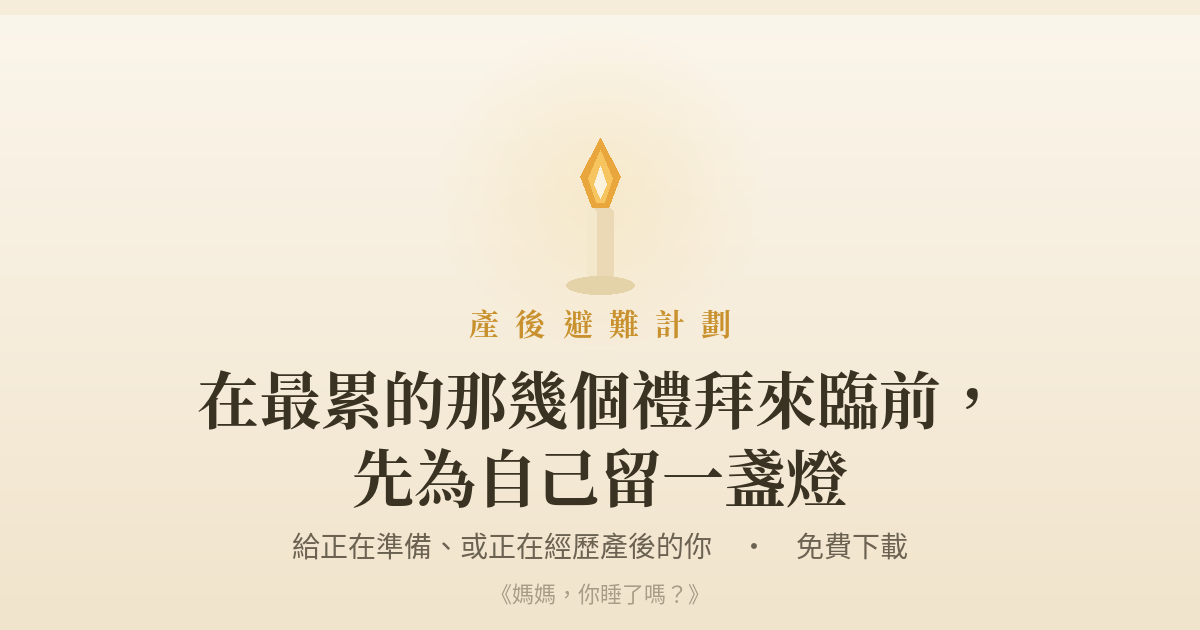
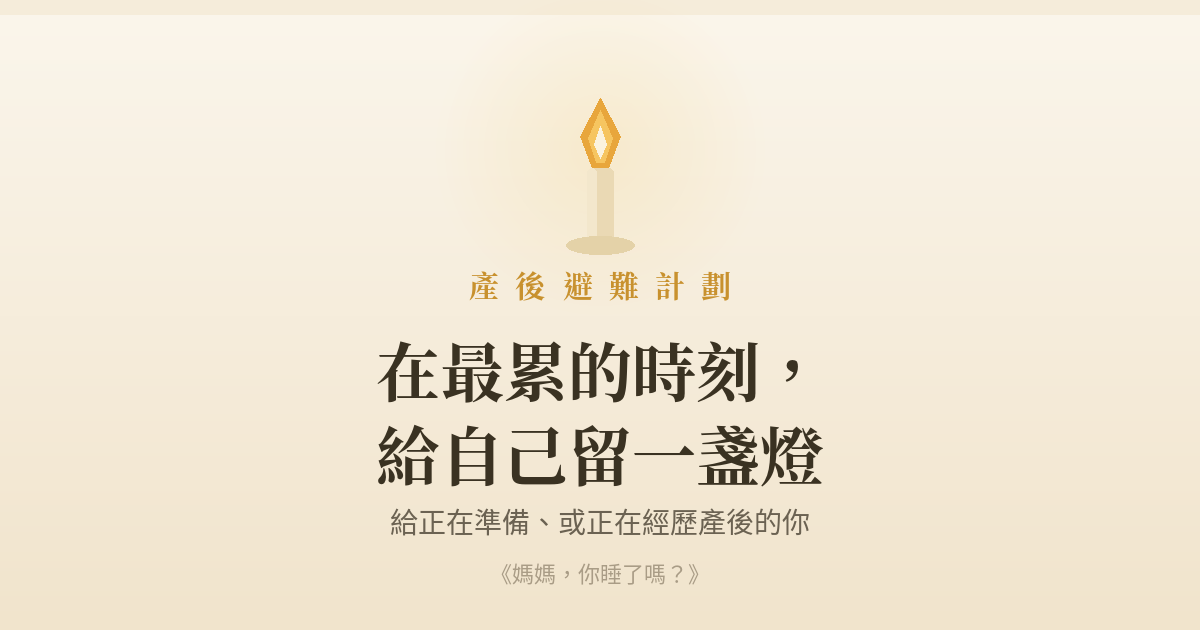
Add files via upload

Changed region(s): [[0.1542, 0.3619, 0.8325, 0.9651], [0.4625, 0.1508, 0.5242, 0.3317]]

diff --git a/index.html b/index.html
@@ -1,13 +1,29 @@
 <!DOCTYPE html>
-<!-- saved from url=(0045)https://dearmamatw.github.io/Postpartum-plan/ -->
-<html lang="zh-Hant"><head><meta http-equiv="Content-Type" content="text/html; charset=UTF-8">
-
+<html lang="zh-Hant">
+<head>
+<meta charset="UTF-8">
 <meta name="viewport" content="width=device-width, initial-scale=1.0">
 <title>產後避難計劃 ·《媽媽，你睡了嗎？》</title>
-<meta name="description" content="在最累的時刻，給自己留一盞燈。一份免費的產後避難計劃填寫表。">
-<link rel="preconnect" href="https://fonts.googleapis.com/">
-<link rel="preconnect" href="https://fonts.gstatic.com/" crossorigin="">
-<link href="./產後避難計劃 ·《媽媽，你睡了嗎？》_files/css2" rel="stylesheet">
+<meta name="description" content="給正在準備、或正在經歷產後的你。一份免費的產後避難計劃填寫表。">
+
+<!-- Open Graph / social preview -->
+<meta property="og:type" content="website">
+<meta property="og:url" content="https://dearmamatw.github.io/Postpartum-plan/">
+<meta property="og:title" content="產後避難計劃 ·《媽媽，你睡了嗎？》">
+<meta property="og:description" content="在最累的時刻，給自己留一盞燈。給正在準備、或正在經歷產後的你，一份免費、可填寫的產後避難計劃。">
+<meta property="og:image" content="https://dearmamatw.github.io/Postpartum-plan/og-image.png">
+<meta property="og:image:width" content="1200">
+<meta property="og:image:height" content="630">
+<meta property="og:image:alt" content="產後避難計劃 · 給正在準備、或正在經歷產後的你">
+<meta property="og:locale" content="zh_TW">
+<meta property="og:site_name" content="媽媽，你睡了嗎？">
+<meta name="twitter:card" content="summary_large_image">
+<meta name="twitter:title" content="產後避難計劃 ·《媽媽，你睡了嗎？》">
+<meta name="twitter:description" content="在最累的時刻，給自己留一盞燈。一份免費、可填寫的產後避難計劃。">
+<meta name="twitter:image" content="https://dearmamatw.github.io/Postpartum-plan/og-image.png">
+<link rel="preconnect" href="https://fonts.googleapis.com">
+<link rel="preconnect" href="https://fonts.gstatic.com" crossorigin>
+<link href="https://fonts.googleapis.com/css2?family=Noto+Serif+TC:wght@500;600;700&family=Noto+Sans+TC:wght@400;500;700&display=swap" rel="stylesheet">
 <style>
   :root{
     --cream:#FBF6EC; --cream-2:#F5ECDA; --soft:#EFE2C6;
@@ -68,6 +84,7 @@
   <h1>在最累的時刻，<br>給自己留一盞燈</h1>
 
   <p class="lede">
+    給正在準備、或正在經歷產後的你。<br>
     <span class="thin">不論你還在懷孕，或已經在產後的忙亂裡——這份計劃都是為你準備的。</span>
   </p>
 
@@ -78,14 +95,13 @@
   <div class="card">
     <p class="k">產後避難計劃 · 可填寫表單</p>
     <p class="d">你不需要一次填完，翻到哪一頁對你有用，就從哪裡開始。<br>準備好了，就把它收下。</p>
-    <a class="btn" href="https://dearmamatw.github.io/Postpartum-plan/postpartum-sanctuary-plan.pdf" download="產後避難計劃.pdf">下載產後避難計劃</a>
+    <a class="btn" href="postpartum-sanctuary-plan.pdf" download="產後避難計劃.pdf">下載產後避難計劃</a>
   </div>
 
   <div class="help">
     <p>
-      如果需要有人說說話時：<br>
-      <span class="num">1925</span> 安心專線（依舊愛我，24 小時）<br>
-      <span class="num">0800-870-870</span> 孕產婦關懷專線（抱緊您，週一至週五 9–17 時）
+      如果讀著、填著，想起了一些還沒說出口的重量，那很正常。<br>
+      需要有人說說話時：<span class="num">1925</span> 安心專線（依舊愛我，24 小時）、<span class="num">0800-870-870</span> 孕產婦關懷專線（抱緊您，週一至週五 9–17 時），都在。
     </p>
   </div>
 
@@ -115,6 +131,5 @@
       .catch(()=>{});
   });
 </script>
-
-
-</body></html>
+</body>
+</html>
